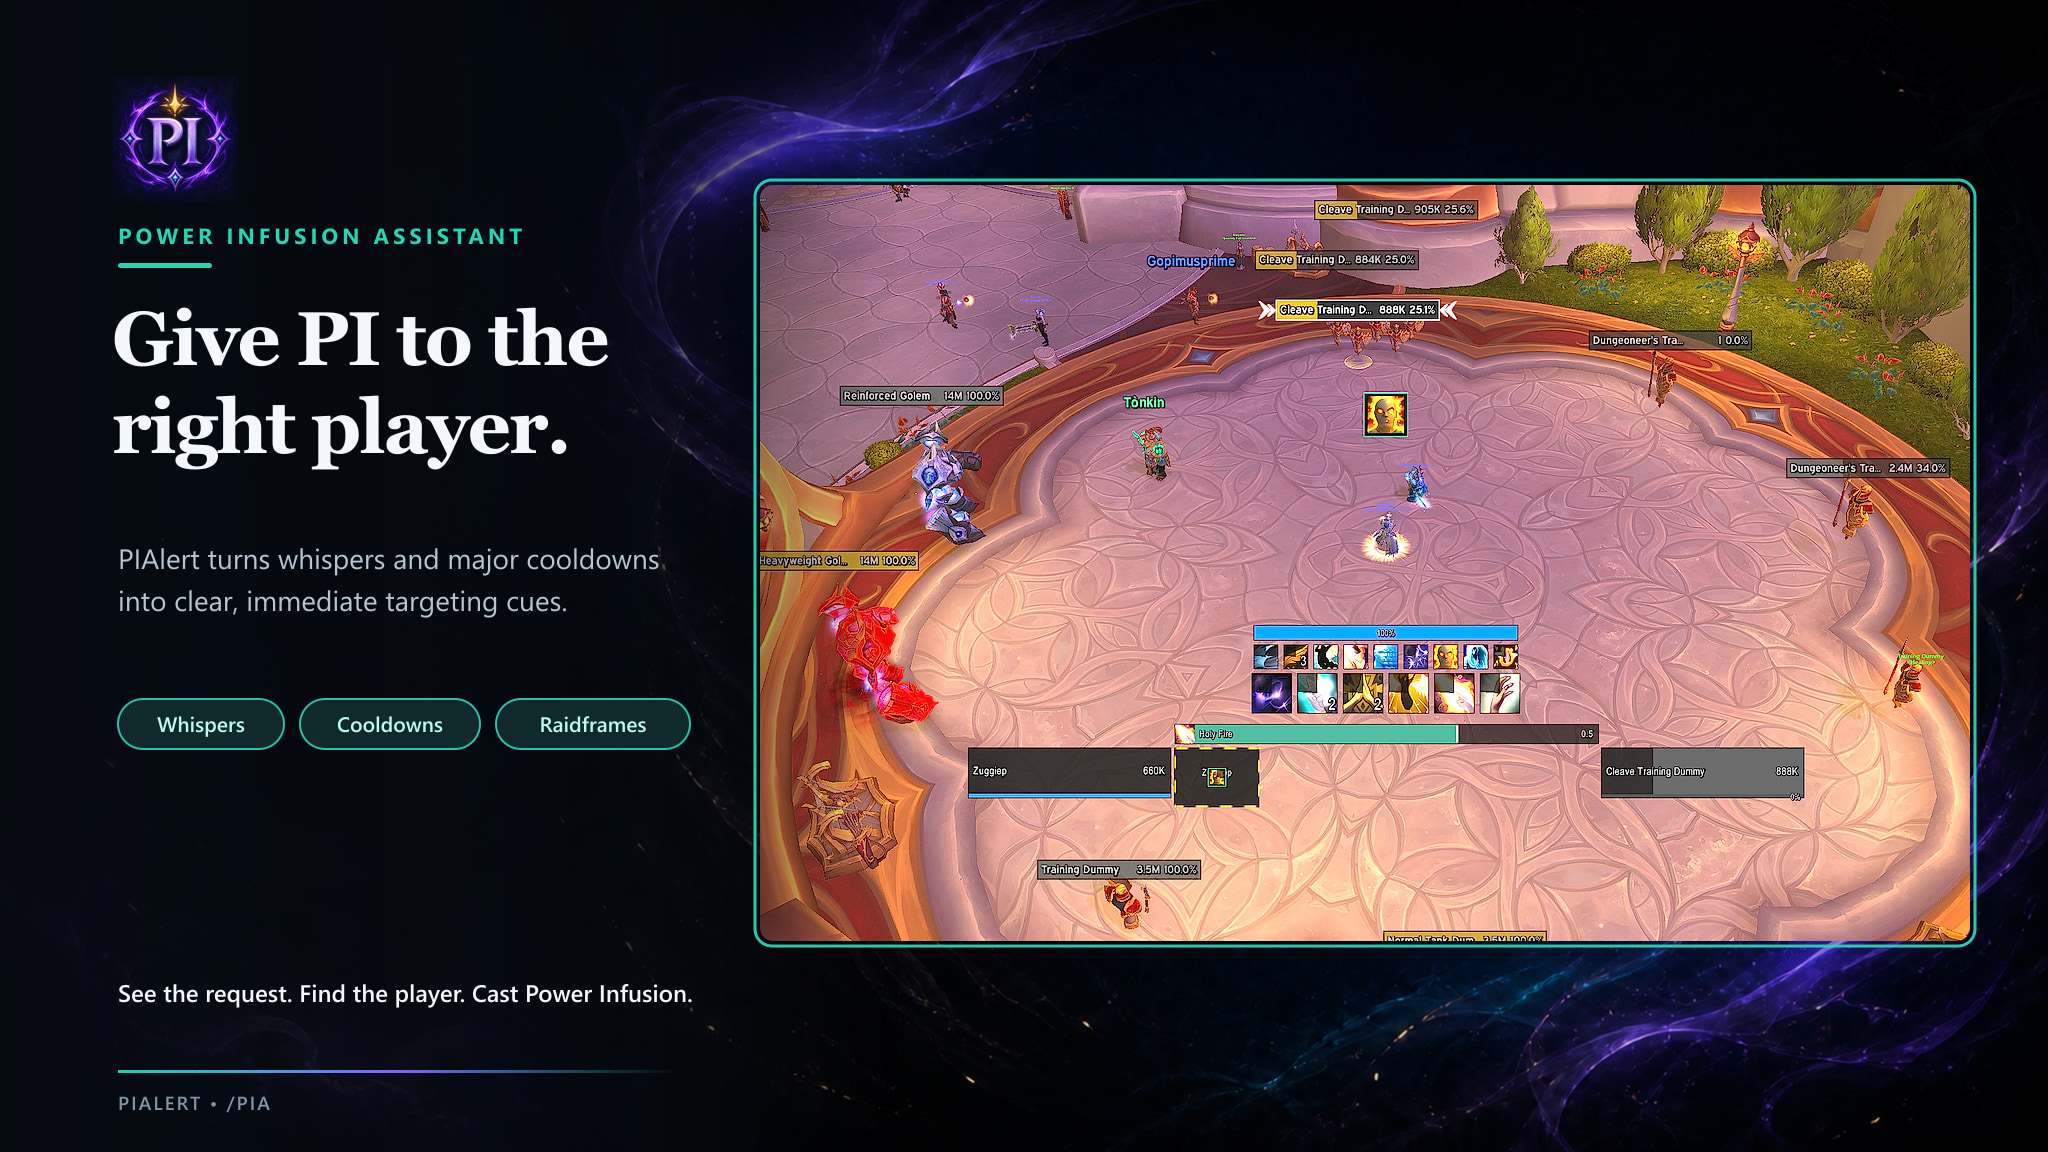
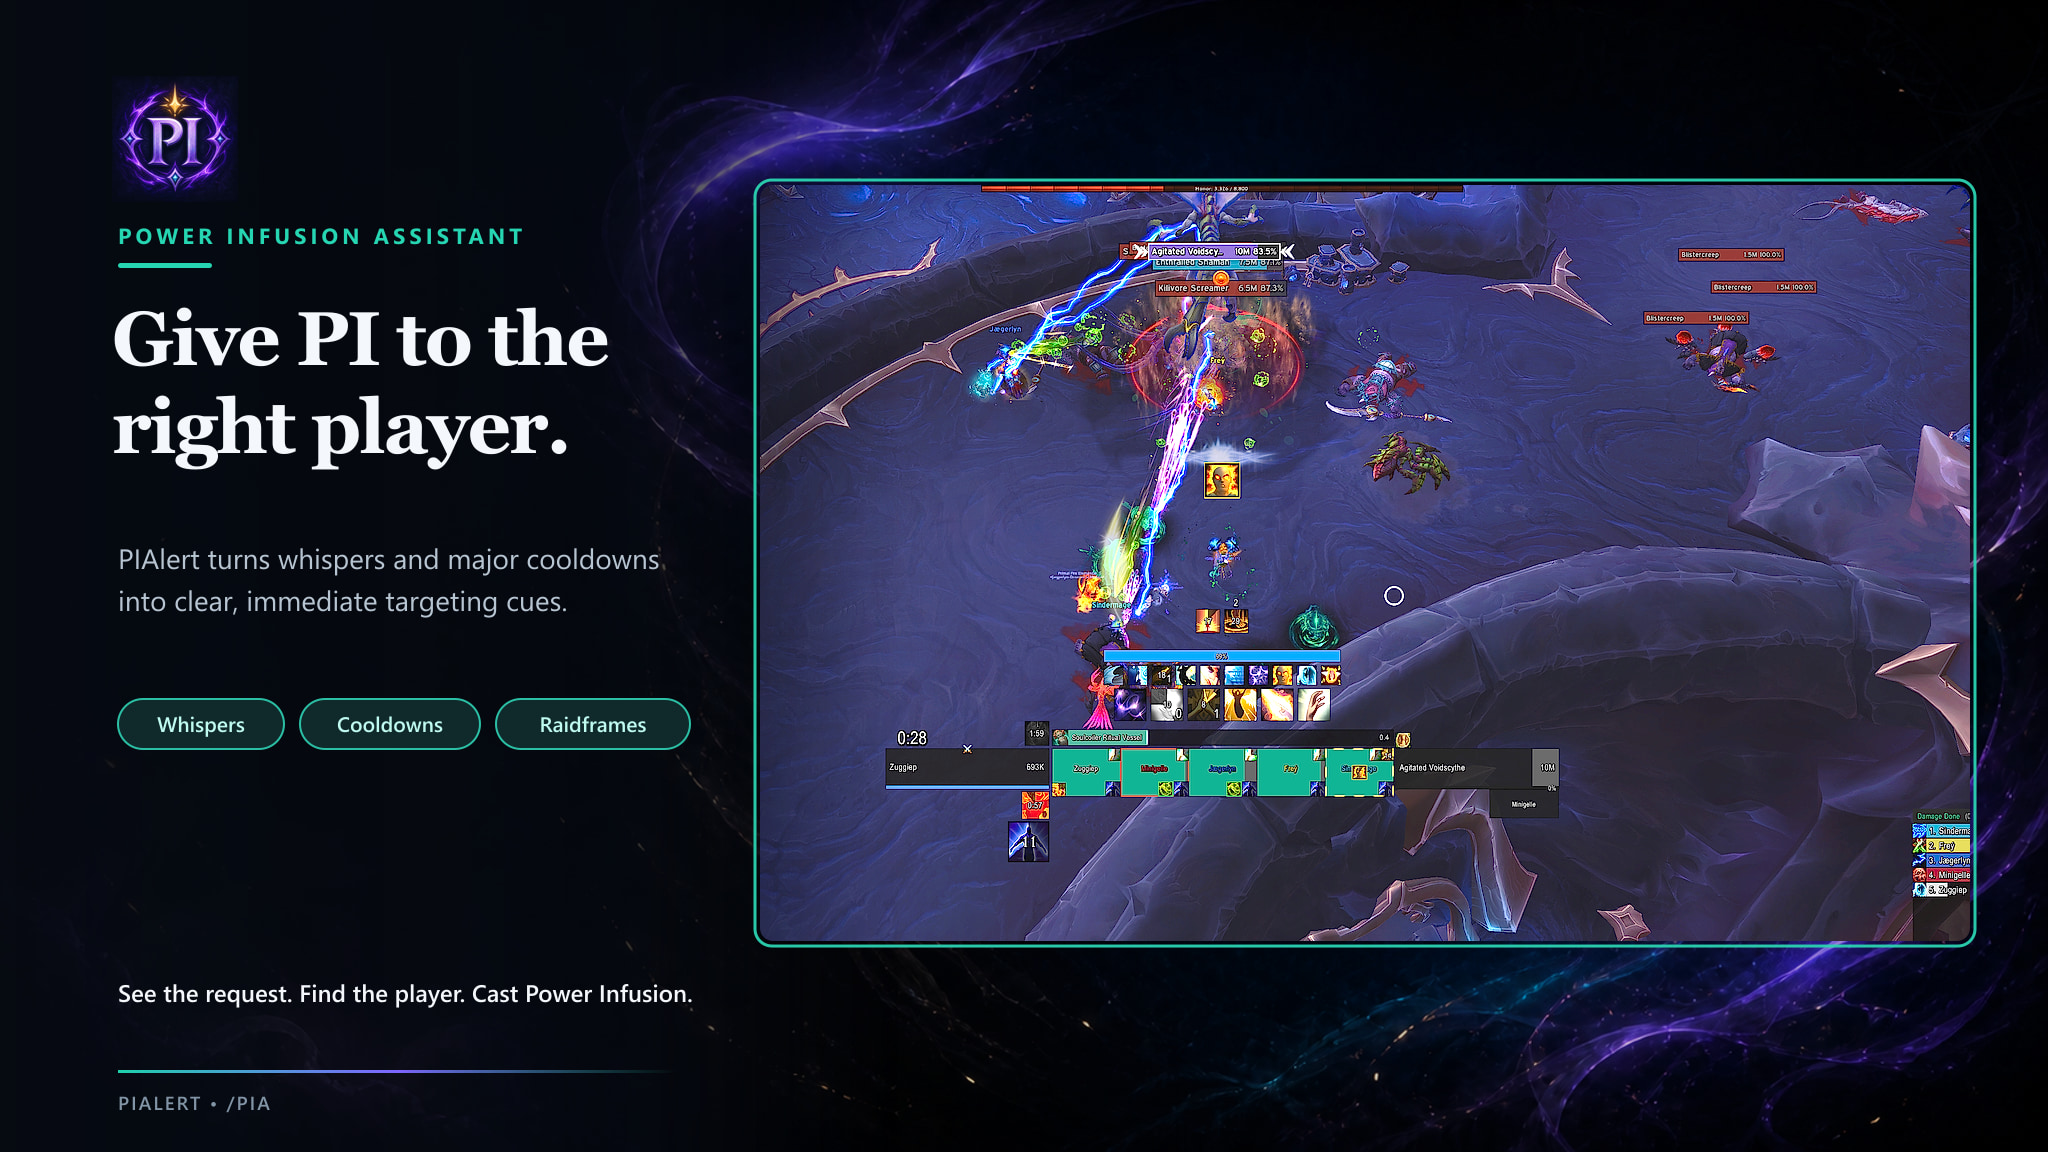
Refresh CurseForge gallery and copy
Replace the original hero with a live combat capture, add a dedicated right-click controls slide, retain the polished frameless visual system across all six images, and document the exact requester and macro-target context-menu actions in the CurseForge description.

diff --git a/Branding/CurseForge/build-gallery.js b/Branding/CurseForge/build-gallery.js
@@ -23,8 +23,8 @@ const COLORS = {
 const slides = [
   {
     output: "01-pialert-hero.jpg",
-    source: "WoWScrnShot_082726_170152.jpg",
-    crop: { left: 1600, top: 210, width: 1856, height: 1160 },
+    source: "WoWScrnShot_082726_212445.jpg",
+    crop: { left: 1680, top: 0, width: 2304, height: 1440 },
     shot: { x: 760, y: 185, width: 1210, height: 756 },
     eyebrow: "POWER INFUSION ASSISTANT",
     title: ["Give PI to the", "right player."],
@@ -75,7 +75,20 @@ const slides = [
     bullets: ["Class-organized presets", "Custom spell support", "Multiple aura IDs per cooldown"],
   },
   {
-    output: "05-macros.jpg",
+    output: "05-right-click.jpg",
+    source: "WoWScrnShot_082726_214545.jpg",
+    crop: { left: 2300, top: 200, width: 1600, height: 1000 },
+    shot: { x: 760, y: 185, width: 1210, height: 756 },
+    eyebrow: "RIGHT-CLICK CONTROL",
+    title: ["Manage PI targets", "in seconds."],
+    body: [
+      "Right-click any group member to manage request",
+      "priority or set the named target in your PI macro.",
+    ],
+    bullets: ["Dedicated PI Alert menu section", "Toggle Specific Players instantly", "Set Player macro targets"],
+  },
+  {
+    output: "06-macros.jpg",
     source: "WoWScrnShot_082726_170047.jpg",
     crop: { left: 2659, top: 125, width: 1512, height: 945 },
     shot: { x: 760, y: 185, width: 1210, height: 756 },

diff --git a/Branding/CurseForge/README.md b/Branding/CurseForge/README.md
@@ -4,7 +4,7 @@ This folder contains the reusable assets and build script for the PIAlert CurseF
 
 ## Build
 
-The script expects the five original World of Warcraft screenshots in the local retail screenshot folder. It deliberately composites the real addon interface instead of recreating UI text with generative tools.
+The script expects the six original World of Warcraft screenshots in the local retail screenshot folder. It deliberately composites the real addon interface instead of recreating UI text with generative tools.
 
 ```powershell
 $env:NODE_PATH = "C:\Users\jband\.cache\codex-runtimes\codex-primary-runtime\dependencies\node\node_modules"
@@ -15,10 +15,11 @@ Final 2048×1152 JPEGs are written to `Branding/CurseForge/gallery`.
 
 ## Source screenshots
 
-- `WoWScrnShot_082726_170152.jpg` — live PI alert
+- `WoWScrnShot_082726_212445.jpg` — live combat PI alert
 - `WoWScrnShot_082726_170024.jpg` — Alerts
 - `WoWScrnShot_082726_170021.jpg` — Requests
 - `WoWScrnShot_082726_170044.jpg` — Spells
+- `WoWScrnShot_082726_214545.jpg` — right-click controls
 - `WoWScrnShot_082726_170047.jpg` — Macros
 
 The 5120×1440 source screenshots remain in the World of Warcraft screenshot folder and are not committed to keep the repository lightweight.

diff --git a/Branding/CurseForge/DESCRIPTION.md b/Branding/CurseForge/DESCRIPTION.md
@@ -29,10 +29,10 @@ PIAlert includes organized presets for major class cooldowns and supports custom
 
 Create an account-wide **Player**, **Focus**, or **Mouseover** Power Infusion macro from inside the addon. Player and Focus variants automatically fall back to a valid friendly mouseover target.
 
-You can also right-click a party or raid member to:
+Right-click any party or raid member and use the dedicated **PI Alert** section to:
 
-- Add or remove them from Specific Players.
-- Set them as the Player macro target.
+- Toggle **PI Alert requester** to add or remove them from Specific Players.
+- Choose **Set as PI Alert macro target** to update the named Player macro target while retaining mouseover fallback.
 
 ## Raidframe support
 
